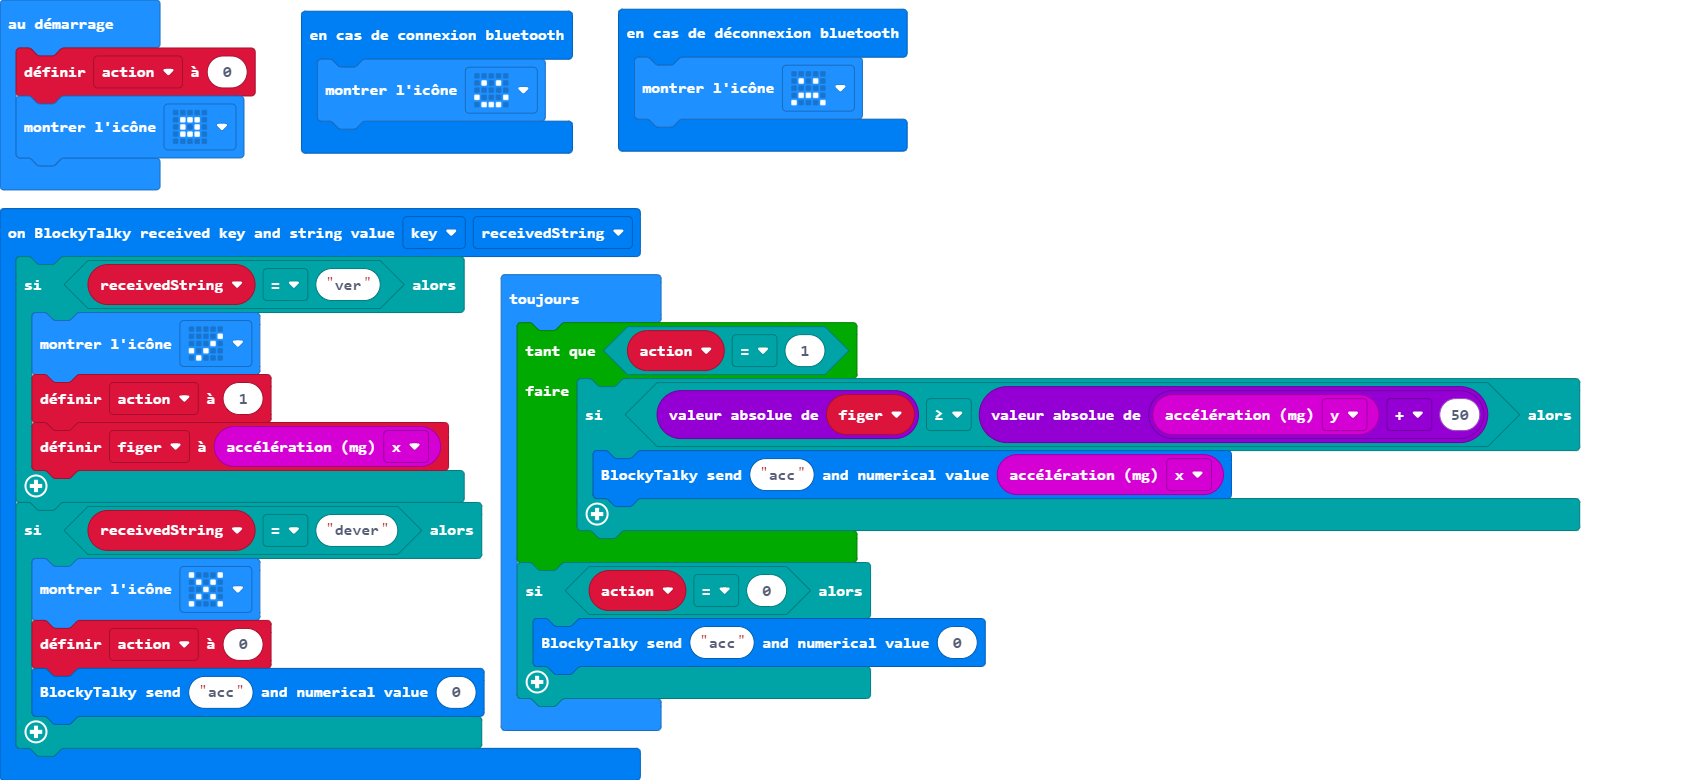
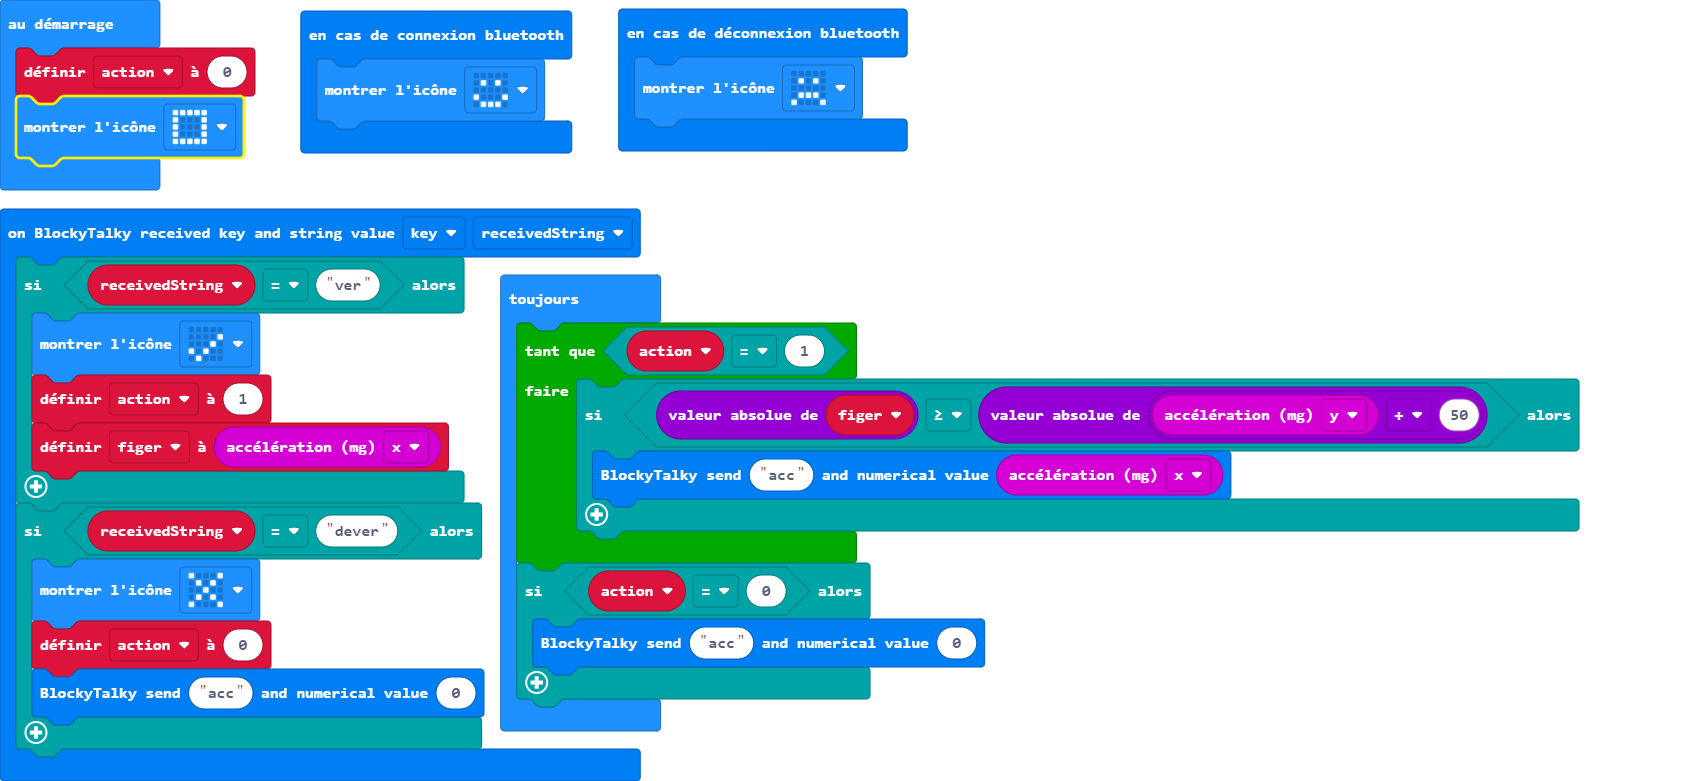
Mise à jour pxt.json, main.blocks, main.ts

diff --git a/main.ts b/main.ts
@@ -19,7 +19,7 @@ blockytalky.onReceivedString(function (key, receivedString) {
 let figer = 0
 let action = 0
 action = 0
-basic.showIcon(IconNames.SmallSquare)
+basic.showIcon(IconNames.Square)
 basic.forever(function () {
     while (action == 1) {
         if (Math.abs(figer) >= Math.abs(input.acceleration(Dimension.Y) + 50)) {
